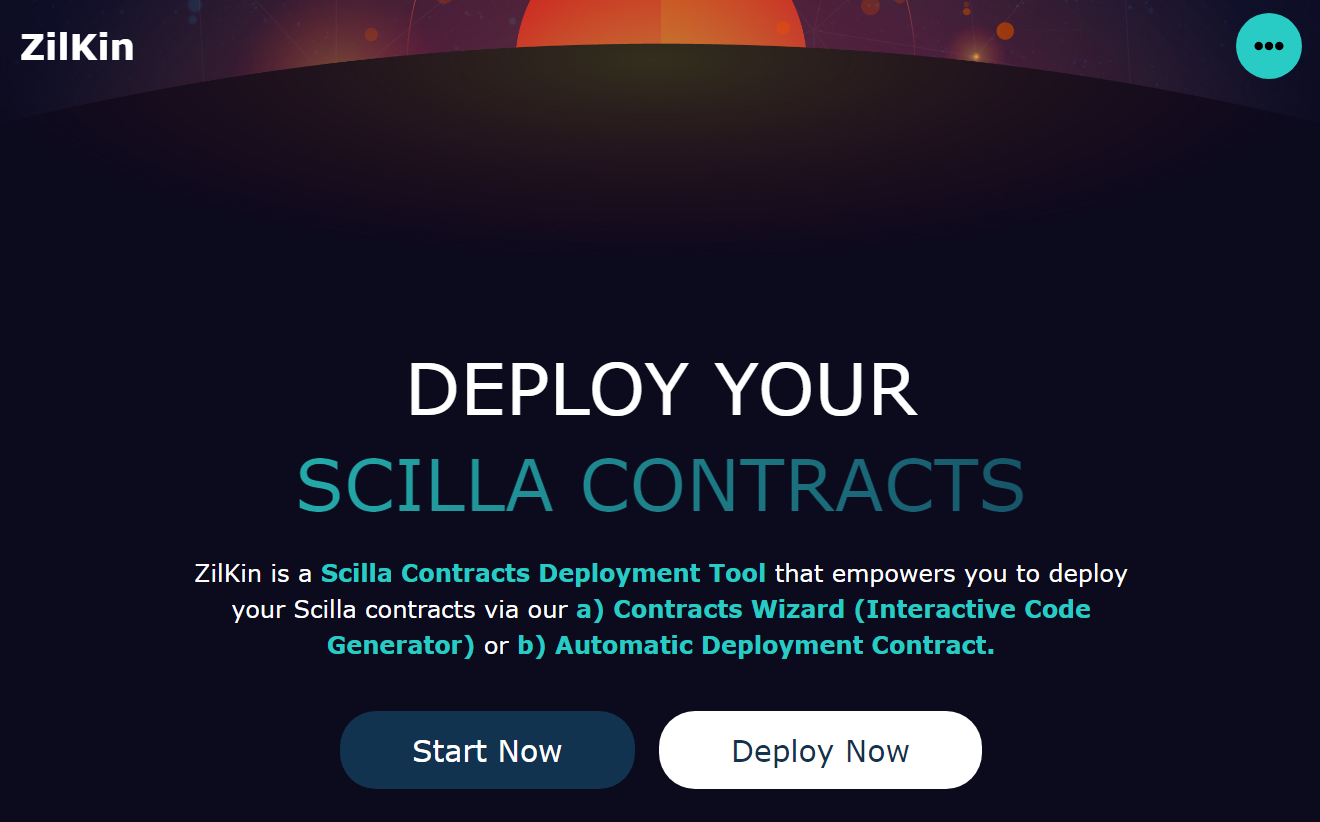
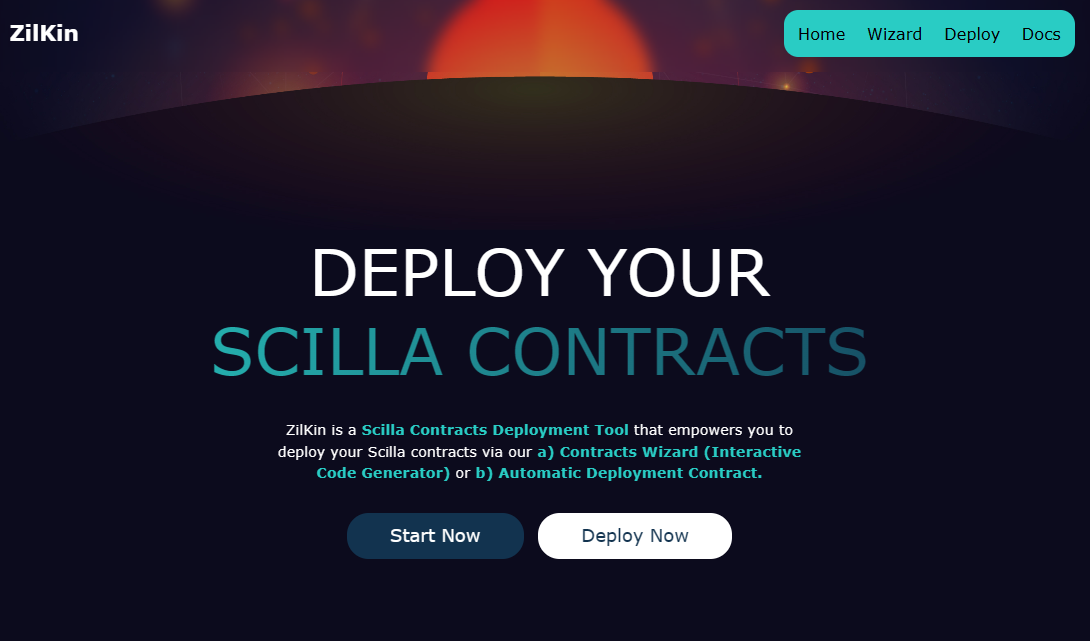
update docs page with docs card component

diff --git a/src/pages/docs/DocsPage.tsx b/src/pages/docs/DocsPage.tsx
@@ -1,0 +1,51 @@
+import React from 'react';
+import { DocsCard, FeatureHeader } from '../../components';
+import { PageTitle } from '../../components/typography/PageTitle';
+
+export const DocsPage = () => {
+  return (
+    <div className="min-h-[85vh] pt-28 px-8 sm:px-24 text-white">
+      <PageTitle title="DOCS" />
+      <div className="flex flex-col">
+        <div>
+          <FeatureHeader numbering="01" title="Developer Docs" />
+          <div className="flex flex-row flex-wrap gap-4">
+            {/* Scilla Docs */}
+            <DocsCard
+              title="Scilla Docs"
+              description="Scilla (short for Smart Contract Intermediate-Level LAnguage) is an intermediate-level smart contract language being developed for the Zilliqa blockchain."
+              href="https://scilla.readthedocs.io/en/latest/"
+            />
+
+            {/* Zilliqa Devloper Portal */}
+            <DocsCard
+              title="Zilliqa Devloper Portal"
+              description="Technical documentation for participating in the Zilliqa network."
+              href="https://dev.zilliqa.com/"
+            />
+          </div>
+        </div>
+        <div className="">
+          <FeatureHeader numbering="02" title="Contracts Standard" />
+          <div className="flex flex-row flex-wrap gap-4">
+            {/* ZRC2 */}
+            <DocsCard
+              title="ZRC2"
+              subTitle="Fungible Tokens"
+              description="ZRC-2 defines a minimum interface that a smart contract must implement to allow fungible tokens to be managed, tracked, owned, and traded peer-to-peer via wallets or exchanges."
+              href="https://github.com/Zilliqa/ZRC/blob/main/zrcs/zrc-2.md"
+            />
+
+            {/* ZRC6 */}
+            <DocsCard
+              title="ZRC6"
+              subTitle="Non-Fungible Token"
+              description="ZRC-6 defines a new minimum interface of an NFT smart contract while improving upon ZRC-1."
+              href="https://github.com/Zilliqa/ZRC/blob/main/zrcs/zrc-6.md"
+            />
+          </div>
+        </div>
+      </div>
+    </div>
+  );
+};

diff --git a/src/components/card/DocsCard.tsx b/src/components/card/DocsCard.tsx
@@ -1,0 +1,35 @@
+import React from 'react';
+
+interface DocsCardProps {
+  title: string;
+  subTitle?: string;
+  description: string;
+  href: string;
+}
+
+export const DocsCard = (props: DocsCardProps) => {
+  const { title, subTitle, description, href } = props;
+
+  return (
+    <a href={href} target="_blank" rel="noopener noreferrer">
+      <div
+        id="card"
+        className="group/card border border-white rounded-lg border-dashed border-2 border-brand-green-default min-h-[12rem] max-w-[24rem] h-full w-full p-4 opacity-50 hover:opacity-100 hover:scale-105 hover:border-solid duration-100 cursor-pointer"
+      >
+        <div
+          id="card-title"
+          className="text-lg mb-2 text-brand-green-default group-hover/card:font-bold"
+        >
+          {title}&nbsp;
+          {subTitle && <span className="text-xs">({subTitle})</span>}
+        </div>
+        <div
+          id="card-body"
+          className="text-gray-400 group-hover/card:text-white"
+        >
+          {description}
+        </div>
+      </div>
+    </a>
+  );
+};

diff --git a/src/App.tsx b/src/App.tsx
@@ -1,7 +1,7 @@
 import React from 'react';
 import { Navbar, Footer } from './components';
 import { Route, Routes } from 'react-router-dom';
-import { ContractsWizardPage, DeployPage, HomePage } from './pages';
+import { ContractsWizardPage, DeployPage, DocsPage, HomePage } from './pages';
 
 function App() {
   return (
@@ -11,6 +11,7 @@ function App() {
         <Route path="/" element={<HomePage />} />
         <Route path="/contracts-wizard" element={<ContractsWizardPage />} />
         <Route path="/deploy" element={<DeployPage />} />
+        <Route path="/docs" element={<DocsPage />} />
       </Routes>
       <Footer />
     </div>

diff --git a/src/components/navbar/Navbar.tsx b/src/components/navbar/Navbar.tsx
@@ -14,10 +14,7 @@ export const Navbar = () => {
           { label: 'Home', href: '/' },
           { label: 'Wizard', href: '/contracts-wizard' },
           { label: 'Deploy', href: '/deploy' },
-          {
-            label: 'Scilla Docs',
-            href: 'https://scilla.readthedocs.io/en/latest/',
-          },
+          { label: 'Docs', href: '/docs' },
         ]}
       />
     </div>

diff --git a/src/components/typography/PageTitle.tsx b/src/components/typography/PageTitle.tsx
@@ -1,0 +1,15 @@
+import React from 'react';
+
+interface PageTitleProps {
+  title: string;
+}
+
+export const PageTitle = (props: PageTitleProps) => {
+  const { title } = props;
+
+  return (
+    <div className="mb-4 text-5xl text-center text-transparent bg-clip-text bg-gradient-to-r from-brand-green-default to-brand-blue-dark">
+      {title}
+    </div>
+  );
+};

diff --git a/src/pages/contracts-wizard/ContractsWizardPage.tsx b/src/pages/contracts-wizard/ContractsWizardPage.tsx
@@ -1,9 +1,11 @@
 import React from 'react';
 import { Wizard } from '../../components';
+import { PageTitle } from '../../components/typography/PageTitle';
 
 export const ContractsWizardPage = () => {
   return (
-    <div>
+    <div className="pt-28 px-6">
+      <PageTitle title="CONTRACTS WIZARD" />
       <Wizard />
     </div>
   );

diff --git a/src/components/index.ts b/src/components/index.ts
@@ -4,3 +4,4 @@ export { Hero } from './hero';
 export { Button } from './button';
 export { FeatureDescription, FeatureHeader, GreenText } from './typography';
 export { Wizard } from './wizard';
+export { DocsCard } from './card';

diff --git a/src/pages/index.tsx b/src/pages/index.tsx
@@ -1,3 +1,4 @@
 export { HomePage } from './home';
 export { DeployPage } from './deploy';
 export { ContractsWizardPage } from './contracts-wizard';
+export { DocsPage } from './docs';

diff --git a/src/components/card/index.ts b/src/components/card/index.ts
@@ -1,0 +1,1 @@
+export { DocsCard } from './DocsCard';

diff --git a/src/pages/docs/index.ts b/src/pages/docs/index.ts
@@ -1,0 +1,1 @@
+export { DocsPage } from './DocsPage';
